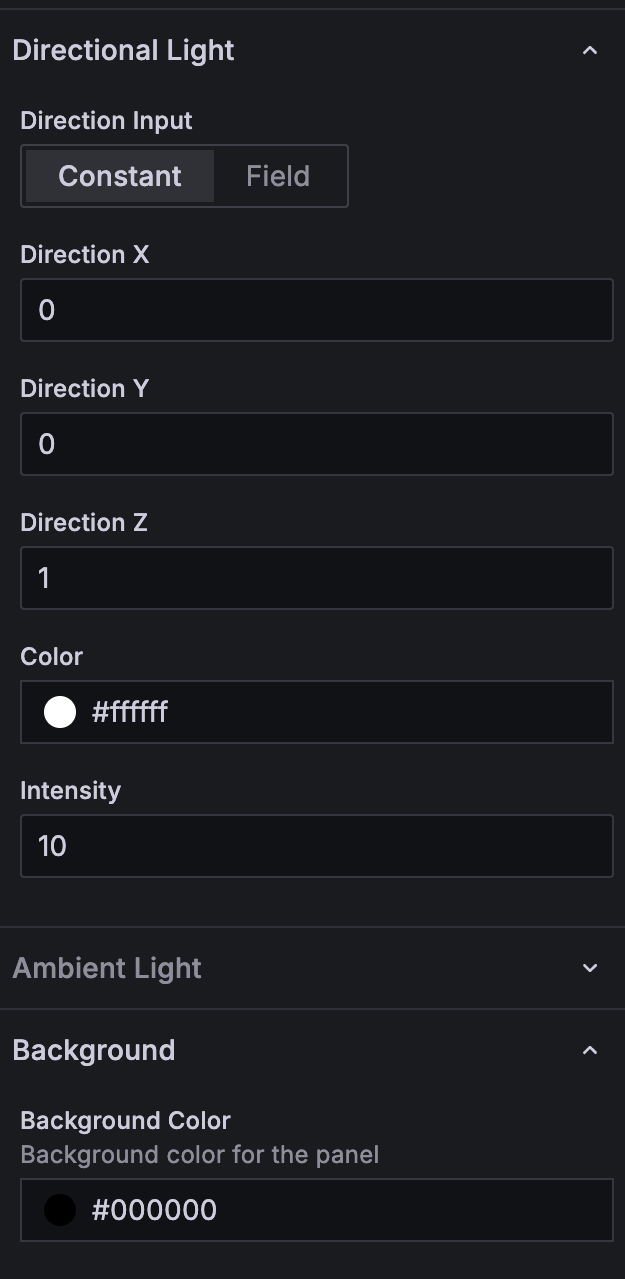
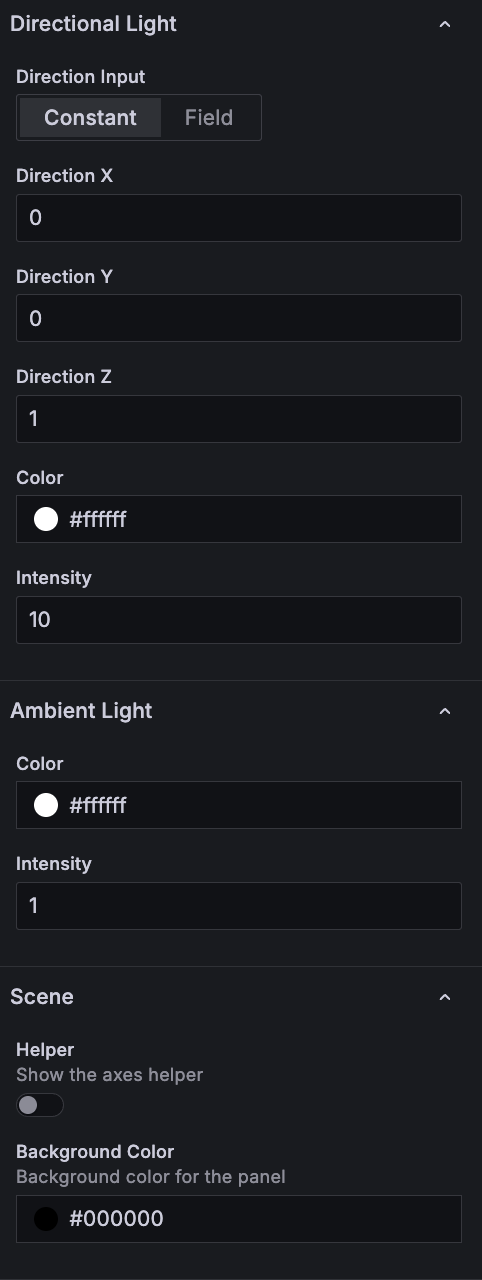
メニュー順序とREADME

diff --git a/src/module.ts b/src/module.ts
@@ -9,16 +9,6 @@ export const plugin = new PanelPlugin<Attitude3DOptions>(Attitude3DPanel)
   .setMigrationHandler((panel) => migrateOptions(panel.options))
   .setPanelOptions((builder) => {
     return builder
-      // Objects
-      .addCustomEditor({
-        category: ['Objects'],
-        id: 'objects',
-        path: 'objects',
-        name: '',
-        description: 'Add and configure the 3D models in the scene',
-        editor: ObjectsEditor,
-        defaultValue: [],
-      })
       // Camera
       .addCustomEditor({
         category: ['Camera'],
@@ -185,5 +175,15 @@ export const plugin = new PanelPlugin<Attitude3DOptions>(Attitude3DPanel)
         name: 'Background Color',
         description: 'Background color for the panel',
         defaultValue: '#000000',
+      })
+      // Objects — last, since the per-object detail editor is the tallest section
+      .addCustomEditor({
+        category: ['Objects'],
+        id: 'objects',
+        path: 'objects',
+        name: '',
+        description: 'Add and configure the 3D models in the scene',
+        editor: ObjectsEditor,
+        defaultValue: [],
       })
   })

diff --git a/README.md b/README.md
@@ -8,10 +8,14 @@ Render WebGL-based 3D models directly inside Grafana dashboards. The panel is id
 
 ## Highlights
 
-- Load GLB, GLTF, or OBJ assets and bind quaternion updates to live telemetry.
-- Tune camera placement, distance, and mouse interactions for inspections or demos.
+- Place **any number of 3D models** in one scene, each with its own asset, position, and orientation.
+- Load GLB, GLTF, or OBJ assets and bind position and quaternion to live telemetry, per model.
+- Point the camera at the origin or at **any model**, and let the look-at point follow it as it moves.
+- Keep models moving smoothly between refreshes with per-model **quaternion interpolation / extrapolation**.
 - Combine directional and ambient lighting to match the conditions your model represents.
-- Align the pivot, helper axes, and background to keep orientation easy to understand.
+- Align each model's pivot, and toggle helper axes and background to keep orientation easy to understand.
+
+Dashboards built with the earlier single-model version are **migrated automatically** — see [Migration](#migration).
 
 ## Installation
 
@@ -22,40 +26,32 @@ Render WebGL-based 3D models directly inside Grafana dashboards. The panel is id
 
 ## Usage Workflow
 
+- **Add a model**: Press *Add Model* under **Objects**. Each model gets its own settings; pick one in the list on the left to edit it on the right.
 - **Provide a model asset**: Host your `.glb`, `.gltf`, or `.obj` file where Grafana can reach it. The URL can include Grafana template variables.
-- **Bind quaternion data**: Choose *Constant* for fixed orientation or *Field* to bind to real-time data frames.
+- **Bind position and quaternion data**: Each of Position X/Y/Z and Quaternion X/Y/Z/W is independently either a *Const* or a *Field*.
 - **Center the model**: Switch between origin, bounding sphere, or average vertex center depending on your asset's coordinate system.
-- **Calibrate the camera**: Use the camera direction vector and relative distance (where the farthest vertex equals 1) to keep the frame consistent.
+- **Calibrate the camera**: Choose the target to look at, then set the direction vector and the relative distance (the target's bounding-sphere radius equals 1).
+- **Smooth out the motion**: Enable per-model interpolation to keep the attitude advancing between dashboard refreshes.
 - **Shape the lighting**: Adjust directional light vectors, colors, and intensity, then blend in ambient light for shadow fill.
 - **Expose helpers and controls**: Toggle helper axes during debugging and enable mouse control for interactive reviews.
 
 ## Panel Options
 
-### Model
-
-<img src="screenshots/menu1.png" alt="Model tab with data source and quaternion configuration fields" width="250" />
-*Panel view — select the mesh source, choose how to feed quaternion values, and define the pivot helper.*
-
-- **Data**: URL or template-variable path to a GLB, GLTF, or OBJ asset. The hosting server must respond to CORS preflight requests.
-- **Quaternion Input**: Choose *Constant* or *Field* to define how the quaternion parameters are sourced.
-- **Quaternion X / Y / Z / W**: Quaternion values applied to the model pivot.
-- **Center**: Use origin, bounding sphere center, or averaged vertices to realign the model.
-- **Helper**: Show helper axes to visualize the pre-rotation frame.
-
 ### Camera
 
-<img src="screenshots/menu2.png" alt="Camera tab highlighting direction, distance, and mouse control toggles" width="250" />
-*Panel view — point the camera via constants or fields and enable mouse-driven orbital controls.*
+<img src="screenshots/menu2.png" alt="Camera tab highlighting the target selector, direction, distance, and mouse control toggles" width="250" />
+*Panel view — pick what the camera looks at, point it via constants or fields, and enable mouse-driven orbital controls.*
 
+- **Target**: The object the camera looks at — `Origin (0, 0, 0)` or one of the models added under Objects. The camera distance scales with the target's bounding-sphere radius, and the look-at point follows the target as it moves. With `Origin`, the distance is based on a sphere enclosing every visible model.
 - **Direction Input**: Provide constants or bind to fields for the camera direction vector.
 - **Direction X / Y / Z**: Components of the camera direction.
-- **Distance**: Relative distance from the model (1 equals the farthest vertex from the center).
+- **Distance**: Relative distance from the target (1 equals the target's bounding-sphere radius).
 - **Mouse Control**: Enable orbit-style camera control for exploratory inspection.
 
 ### Directional Light
 
-<img src="screenshots/menu3.png" alt="Lighting tab showing directional light controls alongside ambient light sliders" width="250" />
-*Panel view — balance directional and ambient light to keep the model legible.*
+<img src="screenshots/menu3.png" alt="Directional Light, Ambient Light, and Scene sections of the options pane" width="250" />
+*Panel view — balance directional and ambient light to keep the model legible, then set the helper axes and background under Scene.*
 
 - **Direction Input**: Choose constants or data-bound vectors for light direction.
 - **Direction X / Y / Z**: Components of the directional light vector.
@@ -65,10 +61,67 @@ Render WebGL-based 3D models directly inside Grafana dashboards. The panel is id
 
 - **Color & Intensity**: Adjust global ambient illumination.
 
-### Background & Helpers
+### Scene
 
+- **Helper**: Toggle helper axes to debug the world coordinate frame.
 - **Background Color**: Pick a solid background or set to transparent for overlay views.
-- **Helper Axes**: Toggle helper axes to debug the local coordinate frame.
+
+### Objects
+
+<img src="screenshots/menu1.png" alt="Objects tab with the model list and the selected model's settings" width="250" />
+*Panel view — add models to the scene, then bind each one's asset, position, and quaternion.*
+
+- **Add Model**: Add a new 3D model to the scene. The list below shows every model; select one to edit it, use the eye icon to hide it, the arrows to reorder, and the trash icon to remove it.
+
+Each model has the following settings:
+
+- **Name**: Display name, shown in the object list and used as a *Camera → Target* option.
+- **Model URL**: URL or template-variable path to a GLB, GLTF, or OBJ asset. The hosting server must respond to CORS preflight requests.
+- **Center**: Realign the asset using its *Origin*, its bounding *Sphere* center, or the *Average* of its vertices.
+- **Scale**: Scale factor applied to the model.
+- **Position X / Y / Z**: Position of the model in world coordinates.
+- **Quaternion X / Y / Z / W**: Orientation applied to the model.
+- **Interpolation**: See [Quaternion Interpolation](#quaternion-interpolation).
+
+Position X/Y/Z and Quaternion X/Y/Z/W each choose their own source:
+
+- **Const**: A fixed numeric value.
+- **Field**: A value read from a query field, taking the latest row. The field can be given either as `Series.Field` (for example `A.q_x`) or as a bare field name (`q_x`). When more than one query returns a field of the same name, use the `Series.Field` form to disambiguate.
+
+## Quaternion Interpolation
+
+Configured **per model**, under that model's *Interpolation* settings in **Objects**.
+
+<img src="screenshots/menu4.png" alt="Interpolation section with Enable, Time Field, Retained Samples, and Max Extrapolation" width="250" />
+*Panel view — enable interpolation to keep a model turning between dashboard refreshes.*
+
+Grafana delivers data in discrete refreshes, so an attitude bound directly to a field only moves when new data arrives. With interpolation enabled, the panel retains a small number of timestamped quaternions across refreshes and spherically interpolates — in the usual case, *extrapolates* — to the end of the display range, so the model keeps turning smoothly between refreshes.
+
+- **Enable**: Turn the behaviour on. Default: off.
+  - Only takes effect when Quaternion X, Y, Z, and W are **all** set to *Field*. If any of them is a *Const*, there is nothing to sample and interpolation stays off.
+  - When the display range is relative (for example `now-5m` to `now`), the extrapolation target advances every frame by the time elapsed since the data arrived.
+- **Time Field**: Time field used for the retained quaternion samples. Leave empty to auto-detect the time field of the target frame.
+- **Retained Samples**: Number of timestamped quaternions retained across refreshes. `2` gives constant angular-velocity extrapolation. Default: `2`.
+- **Max Extrapolation [ms]**: Stop extrapolating once the target time exceeds the newest sample by this much, so a stalled data source freezes the model instead of spinning it away. `0` disables extrapolation, leaving interpolation only. Default: `5000`.
+
+### How it works
+
+**On each refresh**, the panel finds the frame that carries all four quaternion fields, takes its last *Retained Samples* rows, pairs each with the corresponding time value, normalizes the quaternions, and keeps them sorted by time. Nothing older is retained, so the memory cost is fixed regardless of how long the dashboard stays open.
+
+**On each animation frame**, the panel picks a target time and samples the retained buffer at it:
+
+1. **Target time.** The end of the display range (`${__to}`). If the range is relative — anything starting with `now` — the target additionally advances by the wall-clock time elapsed since the data arrived, so it keeps tracking "now" between refreshes rather than freezing at the last refresh instant.
+2. **Clamp.** The target is capped at `newest sample time + Max Extrapolation [ms]`.
+3. **Pick a pair.** If the clamped target is at or past the newest sample — the usual case — the last two samples are used. Otherwise the bracketing pair around the target is used, which makes the motion inside the retained window a piecewise slerp.
+4. **Slerp.** With `u = (target - a.t) / (b.t - a.t)`, the result is `slerp(a, b, u)`. Three.js implements slerp with the great-circle formula, so `u > 1` continues along the same great circle at the same angular velocity and the result stays a unit quaternion — no renormalization drift, no gimbal artifacts.
+
+With the default *Retained Samples* of `2`, this is exactly constant-angular-velocity extrapolation from the two newest attitudes. Raising it does not smooth the extrapolation any further — the leading pair still drives it — but it does let the panel interpolate correctly if the target time falls back inside the retained window.
+
+Two degenerate cases are handled without special configuration: a buffer holding a single sample simply applies that attitude, and a pair less than 1 ms apart applies the newer one rather than dividing by a near-zero interval.
+
+## Migration
+
+Dashboards created with the previous, single-model version of this panel are migrated automatically the first time the panel is opened. The old `Model URL` / `Center` / Quaternion X..W / Quaternion Interpolation settings are converted into a single object named `Model 1`, its position is set to (0, 0, 0), and the Camera Target is set to `Origin` — so the panel looks exactly the same as before. Camera, lighting, and background settings are carried over untouched.
 
 ## Development
 

diff --git a/src/README.md b/src/README.md
@@ -4,35 +4,6 @@ Panel for rendering 3D objects
 
 ## Panel Setting
 
-### Objects
-
-* Add Model
-  * Add a new 3D model to the scene. Each added model gets its own set of settings below (master/detail: pick a model on the left to edit its settings on the right)
-  * Name
-    * Display name for the model, shown in the object list and used as a Camera Target option
-  * Model URL
-    * glb, gltf or obj file for the model
-    * You can use variables in this field
-    * Note: The server providing the model must respond to the Preflight Request
-  * Center
-    * Origin: Use the origin of the model
-    * Sphere: Use the center of the bounding sphere
-    * Average: Use the average of vertices
-  * Scale
-    * Scale factor applied to the model
-  * Position X, Y, Z
-    * Position of the model
-  * Quaternion X, Y, Z, W
-    * Quaternion for the model
-  * Interpolation
-    * See [Quaternion Interpolation](#quaternion-interpolation) below
-
-  Position X/Y/Z and Quaternion X/Y/Z/W each have their own source:
-  * Const: Use a constant value
-  * Field: Use the value from a query field. The field can be specified either as `Series.Field`
-    (e.g. `A.q_x`) or as a bare field name (e.g. `q_x`). If more than one query returns a field
-    with the same name, use the `Series.Field` form to disambiguate which query's field is used
-
 ### Camera
 
 * Target
@@ -76,6 +47,35 @@ Panel for rendering 3D objects
 * Background Color
   * Color of the background
 
+### Objects
+
+* Add Model
+  * Add a new 3D model to the scene. Each added model gets its own set of settings below (master/detail: pick a model on the left to edit its settings on the right)
+  * Name
+    * Display name for the model, shown in the object list and used as a Camera Target option
+  * Model URL
+    * glb, gltf or obj file for the model
+    * You can use variables in this field
+    * Note: The server providing the model must respond to the Preflight Request
+  * Center
+    * Origin: Use the origin of the model
+    * Sphere: Use the center of the bounding sphere
+    * Average: Use the average of vertices
+  * Scale
+    * Scale factor applied to the model
+  * Position X, Y, Z
+    * Position of the model
+  * Quaternion X, Y, Z, W
+    * Quaternion for the model
+  * Interpolation
+    * See [Quaternion Interpolation](#quaternion-interpolation) below
+
+  Position X/Y/Z and Quaternion X/Y/Z/W each have their own source:
+  * Const: Use a constant value
+  * Field: Use the value from a query field. The field can be specified either as `Series.Field`
+    (e.g. `A.q_x`) or as a bare field name (e.g. `q_x`). If more than one query returns a field
+    with the same name, use the `Series.Field` form to disambiguate which query's field is used
+
 ## Quaternion Interpolation
 
 This is configured per object, under the object's own Interpolation settings in Objects.
@@ -97,6 +97,28 @@ This is configured per object, under the object's own Interpolation settings in 
 * Max Extrapolation [ms]
   * Stop extrapolating once the target time exceeds the newest sample by this much. 0 disables
     extrapolation (interpolation only). Default: 5000
+
+### How it works
+
+On each refresh, the panel finds the frame carrying all four quaternion fields, takes its last
+`Retained Samples` rows, pairs each with the time value, normalizes the quaternions and keeps
+them sorted by time. Nothing older is retained, so memory use is fixed.
+
+On each animation frame:
+
+1. The target time is the end of the display range (`${__to}`). For a relative range (one
+   starting with `now`), it also advances by the wall-clock time elapsed since the data
+   arrived, so it keeps tracking "now" between refreshes
+2. The target is clamped to `newest sample time + Max Extrapolation [ms]`
+3. If the clamped target is at or past the newest sample (the usual case) the last two samples
+   are used; otherwise the pair bracketing the target is used
+4. With `u = (target - a.t) / (b.t - a.t)`, the result is `slerp(a, b, u)`. three.js implements
+   slerp with the great-circle formula, so `u > 1` continues along the same great circle at the
+   same angular velocity and stays a unit quaternion
+
+With the default `Retained Samples` of 2 this is exactly constant-angular-velocity extrapolation
+from the two newest attitudes. A buffer with a single sample applies that attitude as-is, and a
+pair less than 1 ms apart applies the newer one instead of dividing by a near-zero interval.
 
 ## Migration
 
